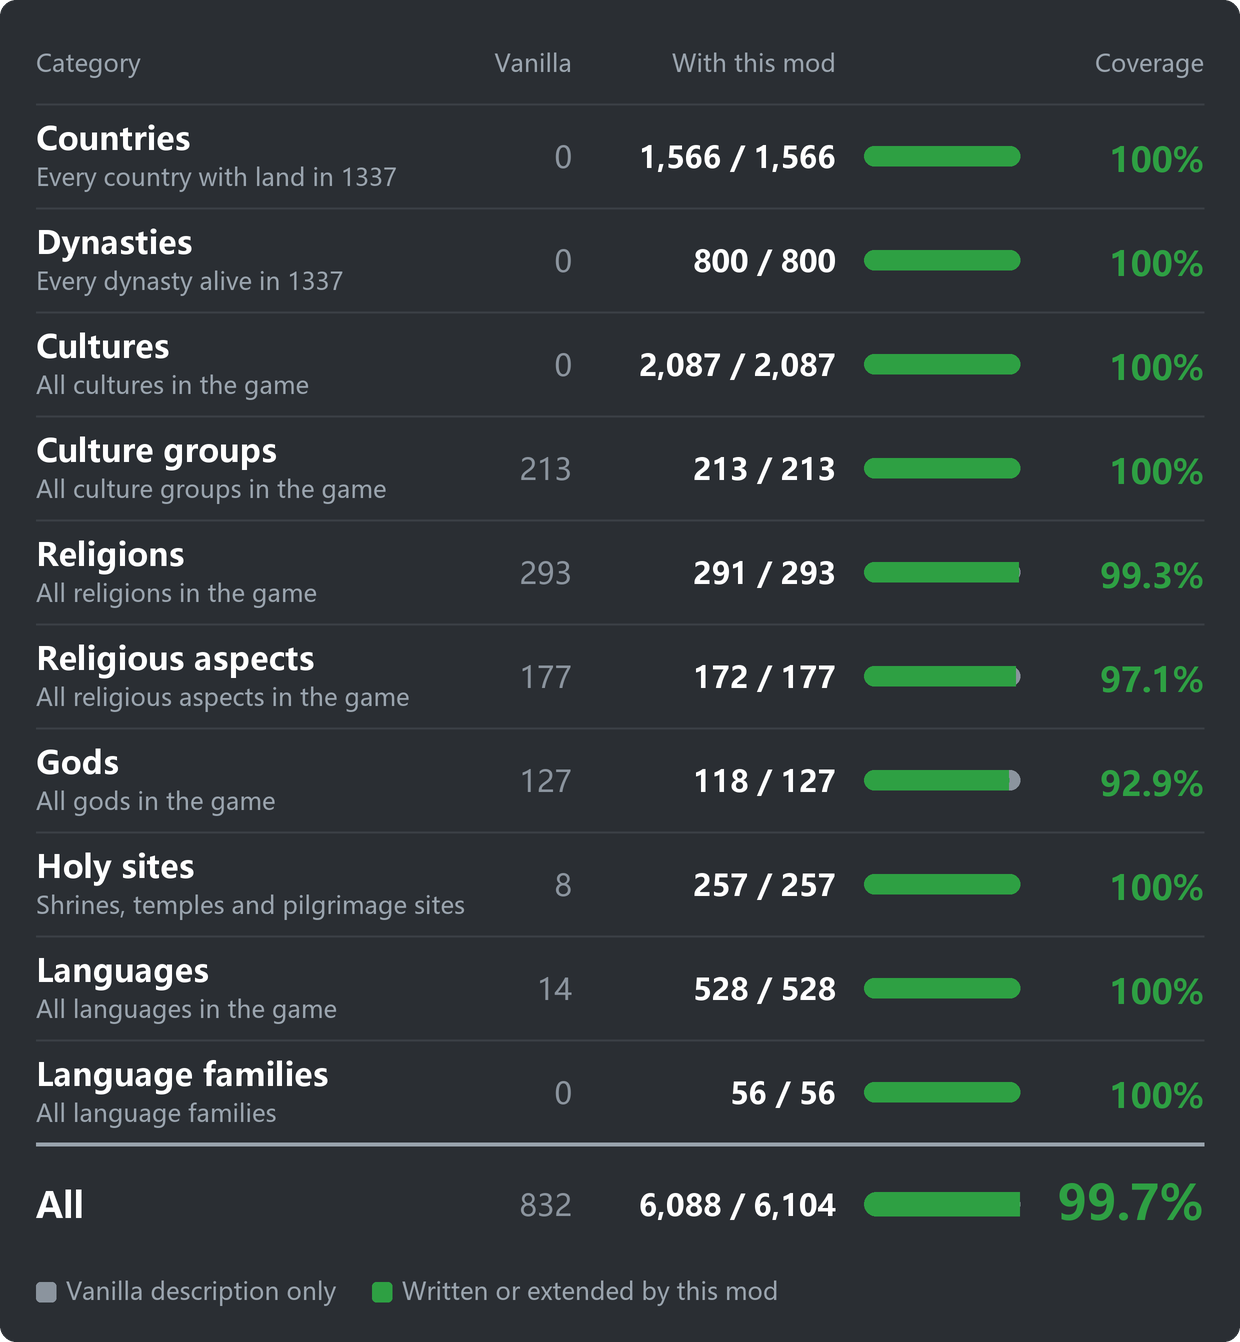
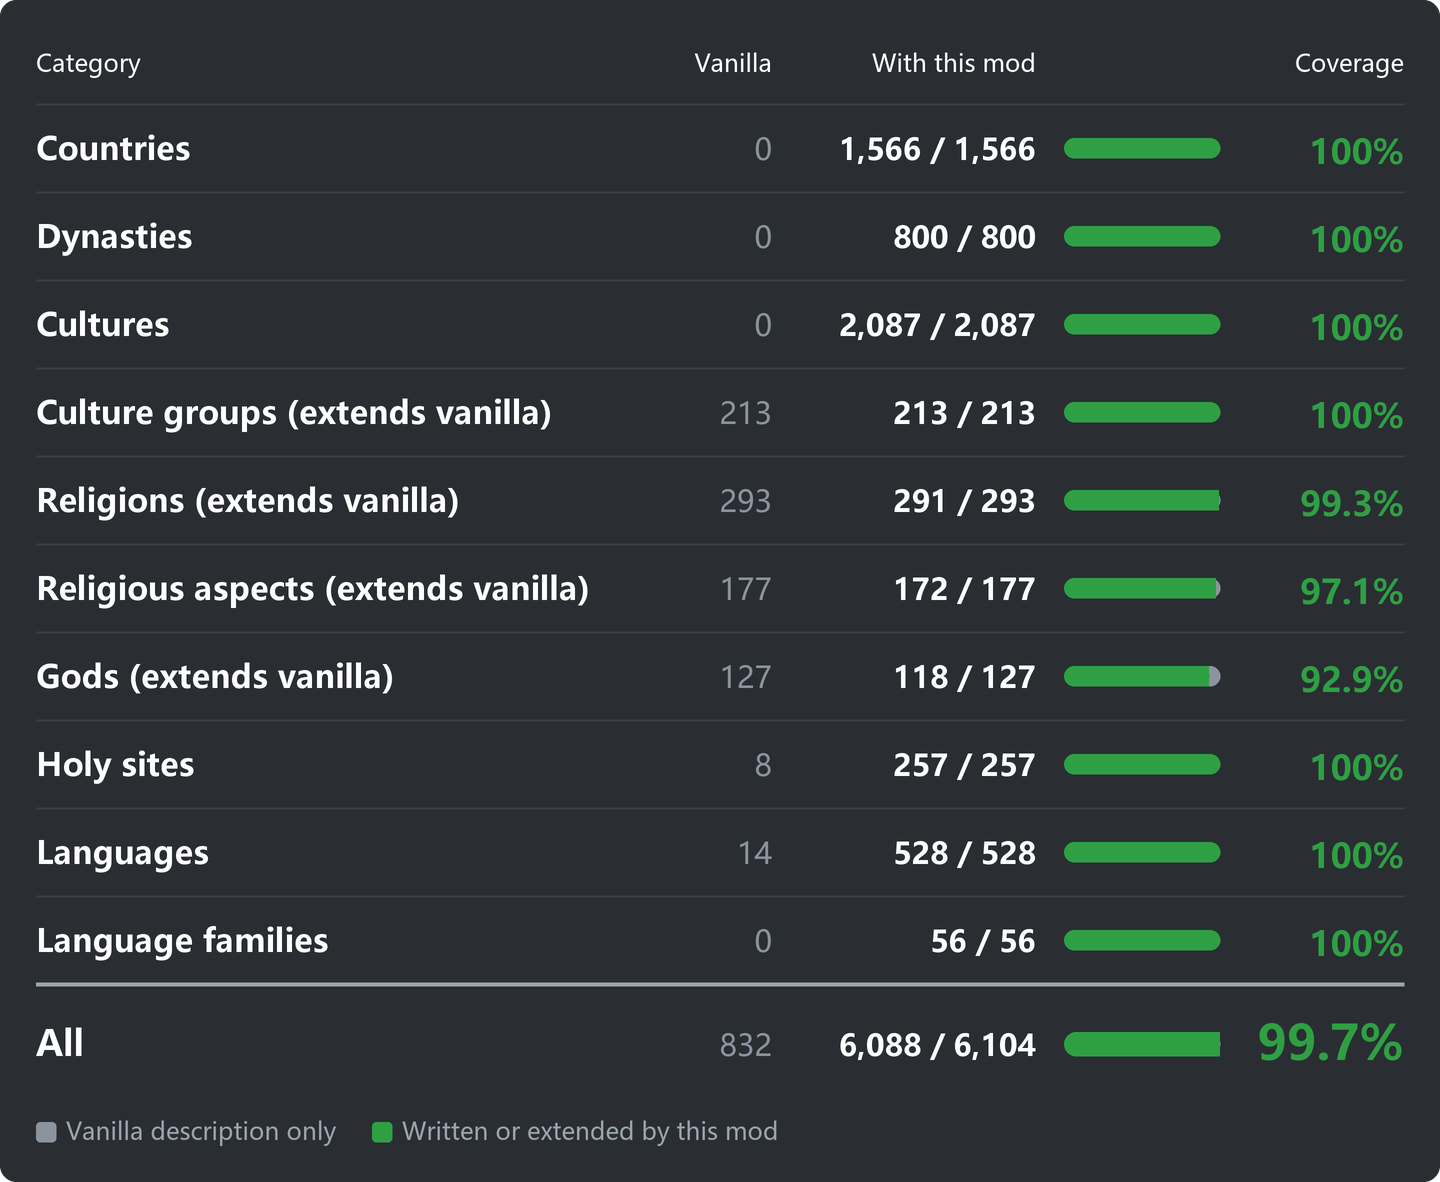
覆盖表：去掉小字说明、表头改白色、官方已有描述的类目标注（扩展了官方描述）、表格加宽

diff --git a/workshop/assets/coverage-20261112/render.py b/workshop/assets/coverage-20261112/render.py
@@ -7,39 +7,39 @@ from PIL import Image, ImageDraw, ImageFont
 
 ROOT = Path(__file__).resolve().parent
 S = 4
-W = 620
-PAD, ROW_H, HEAD_H, TOTAL_H, LEGEND_H, RADIUS = 18, 52, 34, 60, 30, 8
+W = 720
+PAD, ROW_H, HEAD_H, TOTAL_H, LEGEND_H, RADIUS = 18, 44, 34, 60, 30, 8
 BG, ROW_LINE, TRACK = '#2a2e33', '#3a3f45', '#44494f'
 GREEN, GREY, MUTED, WHITE = '#2ea043', '#8b949e', '#9aa4ae', '#ffffff'
 BOLD = 'C:/Windows/Fonts/msyhbd.ttc'
 REG = 'C:/Windows/Fonts/msyh.ttc'
-VAN_R, CNT_R, BAR_X, BAR_W, PCT_R = 286, 418, 432, 78, W - PAD
+VAN_R, CNT_R, BAR_X, BAR_W, PCT_R = 386, 518, 532, 78, W - PAD
 
 TEXT = {
     'en': {'head': ('Category', 'Vanilla', 'With this mod', 'Coverage'),
-           'country': ('Countries', 'Every country with land in 1337'),
-           'culture': ('Cultures', 'All cultures in the game'),
-           'dynasty': ('Dynasties', 'Every dynasty alive in 1337'),
-           'language': ('Languages', 'All languages in the game'),
-           'language_family': ('Language families', 'All language families'),
-           'holy_site': ('Holy sites', 'Shrines, temples and pilgrimage sites'),
-           'culture_group': ('Culture groups', 'All culture groups in the game'),
-           'religion': ('Religions', 'All religions in the game'),
-           'religious_aspect': ('Religious aspects', 'All religious aspects in the game'),
-           'god': ('Gods', 'All gods in the game'),
+           'country': ('Countries', None),
+           'culture': ('Cultures', None),
+           'dynasty': ('Dynasties', None),
+           'language': ('Languages', None),
+           'language_family': ('Language families', None),
+           'holy_site': ('Holy sites', None),
+           'culture_group': ('Culture groups (extends vanilla)', None),
+           'religion': ('Religions (extends vanilla)', None),
+           'religious_aspect': ('Religious aspects (extends vanilla)', None),
+           'god': ('Gods (extends vanilla)', None),
            'total': ('All', None),
            'legend': ('Vanilla description only', 'Written or extended by this mod')},
     'zh-CN': {'head': ('类别', '原版', '本模组', '覆盖率'),
-              'country': ('国家', '1337 年有领土的全部国家'),
-              'culture': ('文化', '游戏里的全部文化'),
-              'dynasty': ('王朝', '1337 年有在世成员的全部王朝'),
-              'language': ('语言', '游戏里的全部语言'),
-              'language_family': ('语族', '游戏里的全部语族'),
-              'holy_site': ('圣地', '神庙、圣陵和朝圣地'),
-              'culture_group': ('文化组', '游戏里的全部文化组'),
-              'religion': ('宗教', '游戏里的全部宗教'),
-              'religious_aspect': ('宗教信条', '游戏里的全部宗教信条'),
-              'god': ('神祇', '游戏里的全部神祇'),
+              'country': ('国家', None),
+              'culture': ('文化', None),
+              'dynasty': ('王朝', None),
+              'language': ('语言', None),
+              'language_family': ('语族', None),
+              'holy_site': ('圣地', None),
+              'culture_group': ('文化组（扩展了官方描述）', None),
+              'religion': ('宗教（扩展了官方描述）', None),
+              'religious_aspect': ('宗教信条（扩展了官方描述）', None),
+              'god': ('神祇（扩展了官方描述）', None),
               'total': ('合计', None),
               'legend': ('仅原版描述', '本模组撰写或补充')},
 }
@@ -79,10 +79,10 @@ def render(lang, data):
     f_num, f_van, f_pct, f_pct_big = font(BOLD, 15), font(REG, 15), font(BOLD, 17), font(BOLD, 24)
     y = PAD
     h1, h2, h3, h4 = t['head']
-    text(d, (PAD, y + 18), h1, f_head, MUTED)
-    text(d, (VAN_R, y + 18), h2, f_head, MUTED, 'rs')
-    text(d, (CNT_R, y + 18), h3, f_head, MUTED, 'rs')
-    text(d, (PCT_R, y + 18), h4, f_head, MUTED, 'rs')
+    text(d, (PAD, y + 18), h1, f_head, WHITE)
+    text(d, (VAN_R, y + 18), h2, f_head, WHITE, 'rs')
+    text(d, (CNT_R, y + 18), h3, f_head, WHITE, 'rs')
+    text(d, (PCT_R, y + 18), h4, f_head, WHITE, 'rs')
     y += HEAD_H
     for row in rows:
         total = row['key'] == 'total'
@@ -94,7 +94,7 @@ def render(lang, data):
             text(d, (PAD, mid - 3), name, f_name, WHITE)
             text(d, (PAD, mid + 15), sub, f_sub, MUTED)
         else:
-            text(d, (PAD, mid + 7), name, font(BOLD, 18), WHITE)
+            text(d, (PAD, mid + 6), name, font(BOLD, 18) if total else f_name, WHITE)
         text(d, (VAN_R, mid + 6), f"{row['vanilla']:,}", f_van, GREY, 'rs')
         text(d, (CNT_R, mid + 6), f"{row['mod']:,} / {row['total']:,}", f_num, WHITE, 'rs')
         bar(d, BAR_X, mid - (6 if total else 5), BAR_W, 12 if total else 10, row['vanilla'], row['mod'], row['total'])
